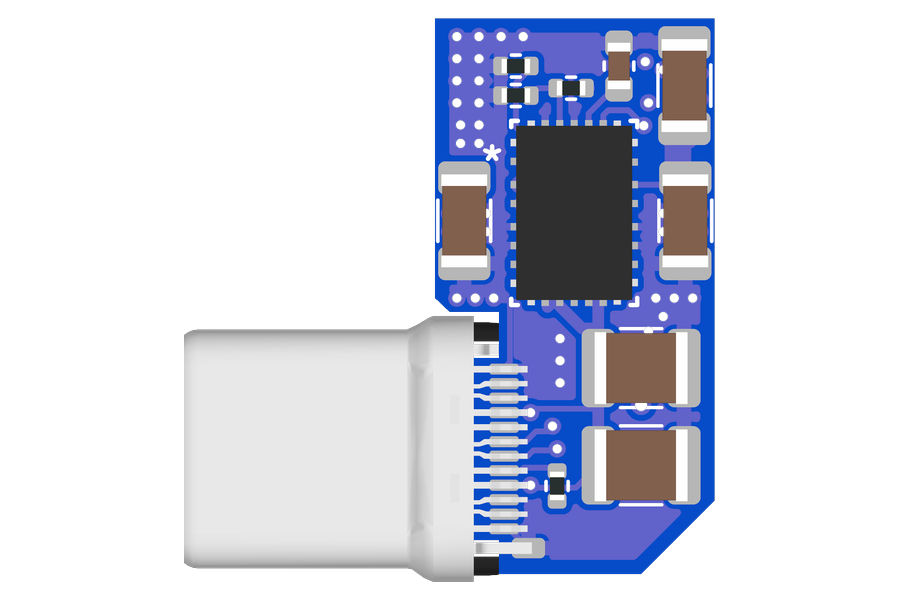
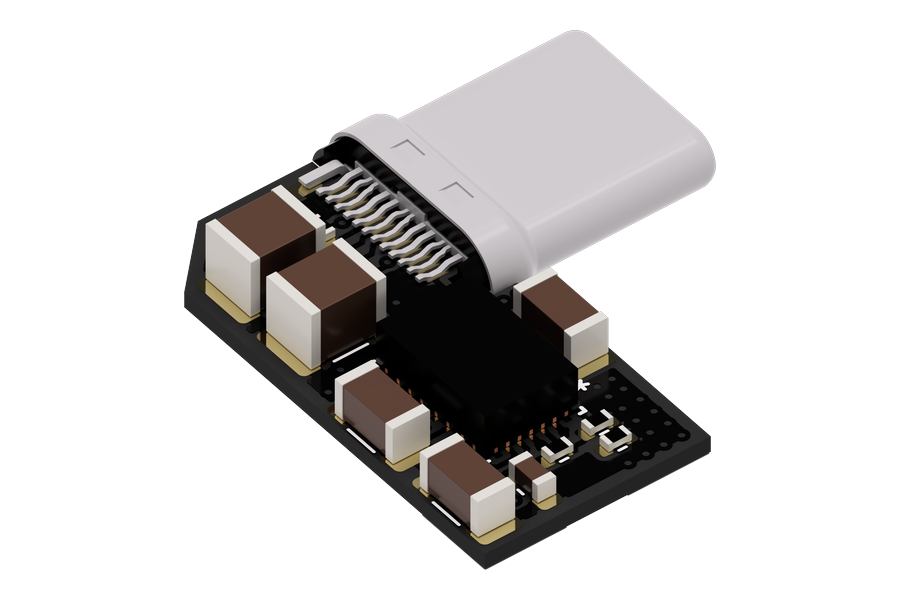
PIPSU: project layout, libraries, README; CANDU: wiki photos and text
- PIPSU: move footprint, symbol and 3D models into libraries/, add lib
  tables, standard .gitignore, README with photos and connections
- CANDU: replace the render with the wiki photos, port list and swap
  text from the wiki
- Root gallery: new CANDU and PIPSU thumbnails

diff --git a/CANDU/README.md b/CANDU/README.md
@@ -1,46 +1,53 @@
 # CANDU V1.1
 
-A passive CAN bus and 24V distribution board. The CAN bus and 24V come in
-once, from the host side, and go out to up to four devices (toolhead boards,
-for example). Each device port is a pair: a screw terminal for 24V and a
-JST-XH connector for CAN, placed one above the other.
+CAN DistribUtor is a board that distributes CAN and 24V power to multiple
+toolheads or CAN devices, like ERCF MMUs.
 
 The board has no active parts: every CAN connector is on the same bus, and
 every power terminal is on the same 24V rail.
 
-| ![](images/candu-render.png) | ![](images/candu-operation.png) |
-| -- | -- |
+| ![](images/candu-view-1.png) | ![](images/candu-view-2.png) | ![](images/candu-view-3.png) |
+| -- | -- | -- |
 
+## Ports
 
-## Host side
+- 1x Power Uplink
+- 1x CAN Uplink, by RJ45 connector
+- 4x CAN+Power Downlinks to end devices
+- 2x Extra CAN Downlinks
+- 1x Power Downlink
+- Power indicator LED: the LEDs in the RJ45 jack light up when the board has
+  24V.
 
-**RJ45**: CAN bus input. The two RJ45 LEDs light up when the board has 24V.
+The board is self-documenting: crimping instructions and pinouts are printed
+on the silkscreen.
+
+![](images/candu-operation.png)
+
+## RJ45 pinout
+
+4 pins of the RJ45 are mapped to CAN H, and the other 4 to CAN L.
 
 ![](images/candu-rj45-pinout.png)
 
-## Device ports
-
-Four ports providing CAN and power to 4 toolheads or devices. 
-
 ## Swapping CAN H and L on the RJ45
 
-If the upstream cable carries CAN H and L the other way round, swap them on
-the board instead of re-crimping the cable. R1 and R2 are two 0 Ω links whose
-four pads form a square:
+The CAN L-H pair coming from the RJ45 jack can be swapped by rotating the
+resistor placement near the jack by 90 degrees. R1 and R2 are two 0 Ω links
+whose four pads form a square:
 
 - **Straight (as built):** both links horizontal. RJ45 pins 5-8 go to CAN H,
   pins 1-4 to CAN L.
-- **Swapped:** desolder both links and fit them vertically, on the dashed
-  outlines. RJ45 pins 1-4 go to CAN H, pins 5-8 to CAN L.
+- **Swapped:** both links vertical, on the dashed outlines. RJ45 pins 1-4 go
+  to CAN H, pins 5-8 to CAN L.
 
 The swap only affects the RJ45 uplink.
 
 ![](images/candu-can-swap.png)
 
-
 ## Notes
 
 - The CAN bus needs a 120 Ω terminator at each end. The board has none, so terminate at the host and at the last device.
-- If using long cables to the 2-4 devices, terminate at two devices instead of at the host. In this case, make sure the CANDU-Host cable is short. 
+- If using long cables to the 2-4 devices, terminate at two devices instead of at the host. In this case, make sure the CANDU-Host cable is short.
 - Four 330 µF high-quality capacitors (C1-C4) buffer the 24V rail.
 - M3 mounting holes are connected to GND.

diff --git a/PIPSU/README.md b/PIPSU/README.md
@@ -1,0 +1,30 @@
+# PIPSU
+
+A tiny PSU for Raspberry Pi boards. It plugs straight into the Pi's USB-C
+port and supplies 5V, up to 3A, from the printer's 24V supply line (it accepts
+8-30V). We built it to take the Raspberry Pi's power draw off the mainboard's
+regulator and use a more stable supply instead.
+
+| ![](images/pipsu-iso.png) | ![](images/pipsu-top.png) | ![](images/pipsu-bottom.png) |
+| -- | -- | -- |
+
+The board uses TI's TPSM63603, an ultra-integrated power module, to keep the
+footprint very small. Its high efficiency keeps the temperature manageable at
+full load, on a very small board with completely passive cooling.
+
+![](images/pipsu-side.png)
+
+## Connections
+
+All the pads are on the back of the board:
+
+- **24V** and **GND** (large pads): the input from the printer's 24V supply
+  (8-30V).
+- **5V** and **GND** (small pads): 5V out, for powering peripherals.
+- **DP** and **DN**: the USB 2.0 data lines of the USB-C plug, for connecting
+  a USB device to the Pi.
+
+The USB-C plug advertises a 3A source to the Pi on its CC line.
+
+| ![](images/pipsu-on-pi-top.png) | ![](images/pipsu-on-pi-bottom.png) |
+| -- | -- |
